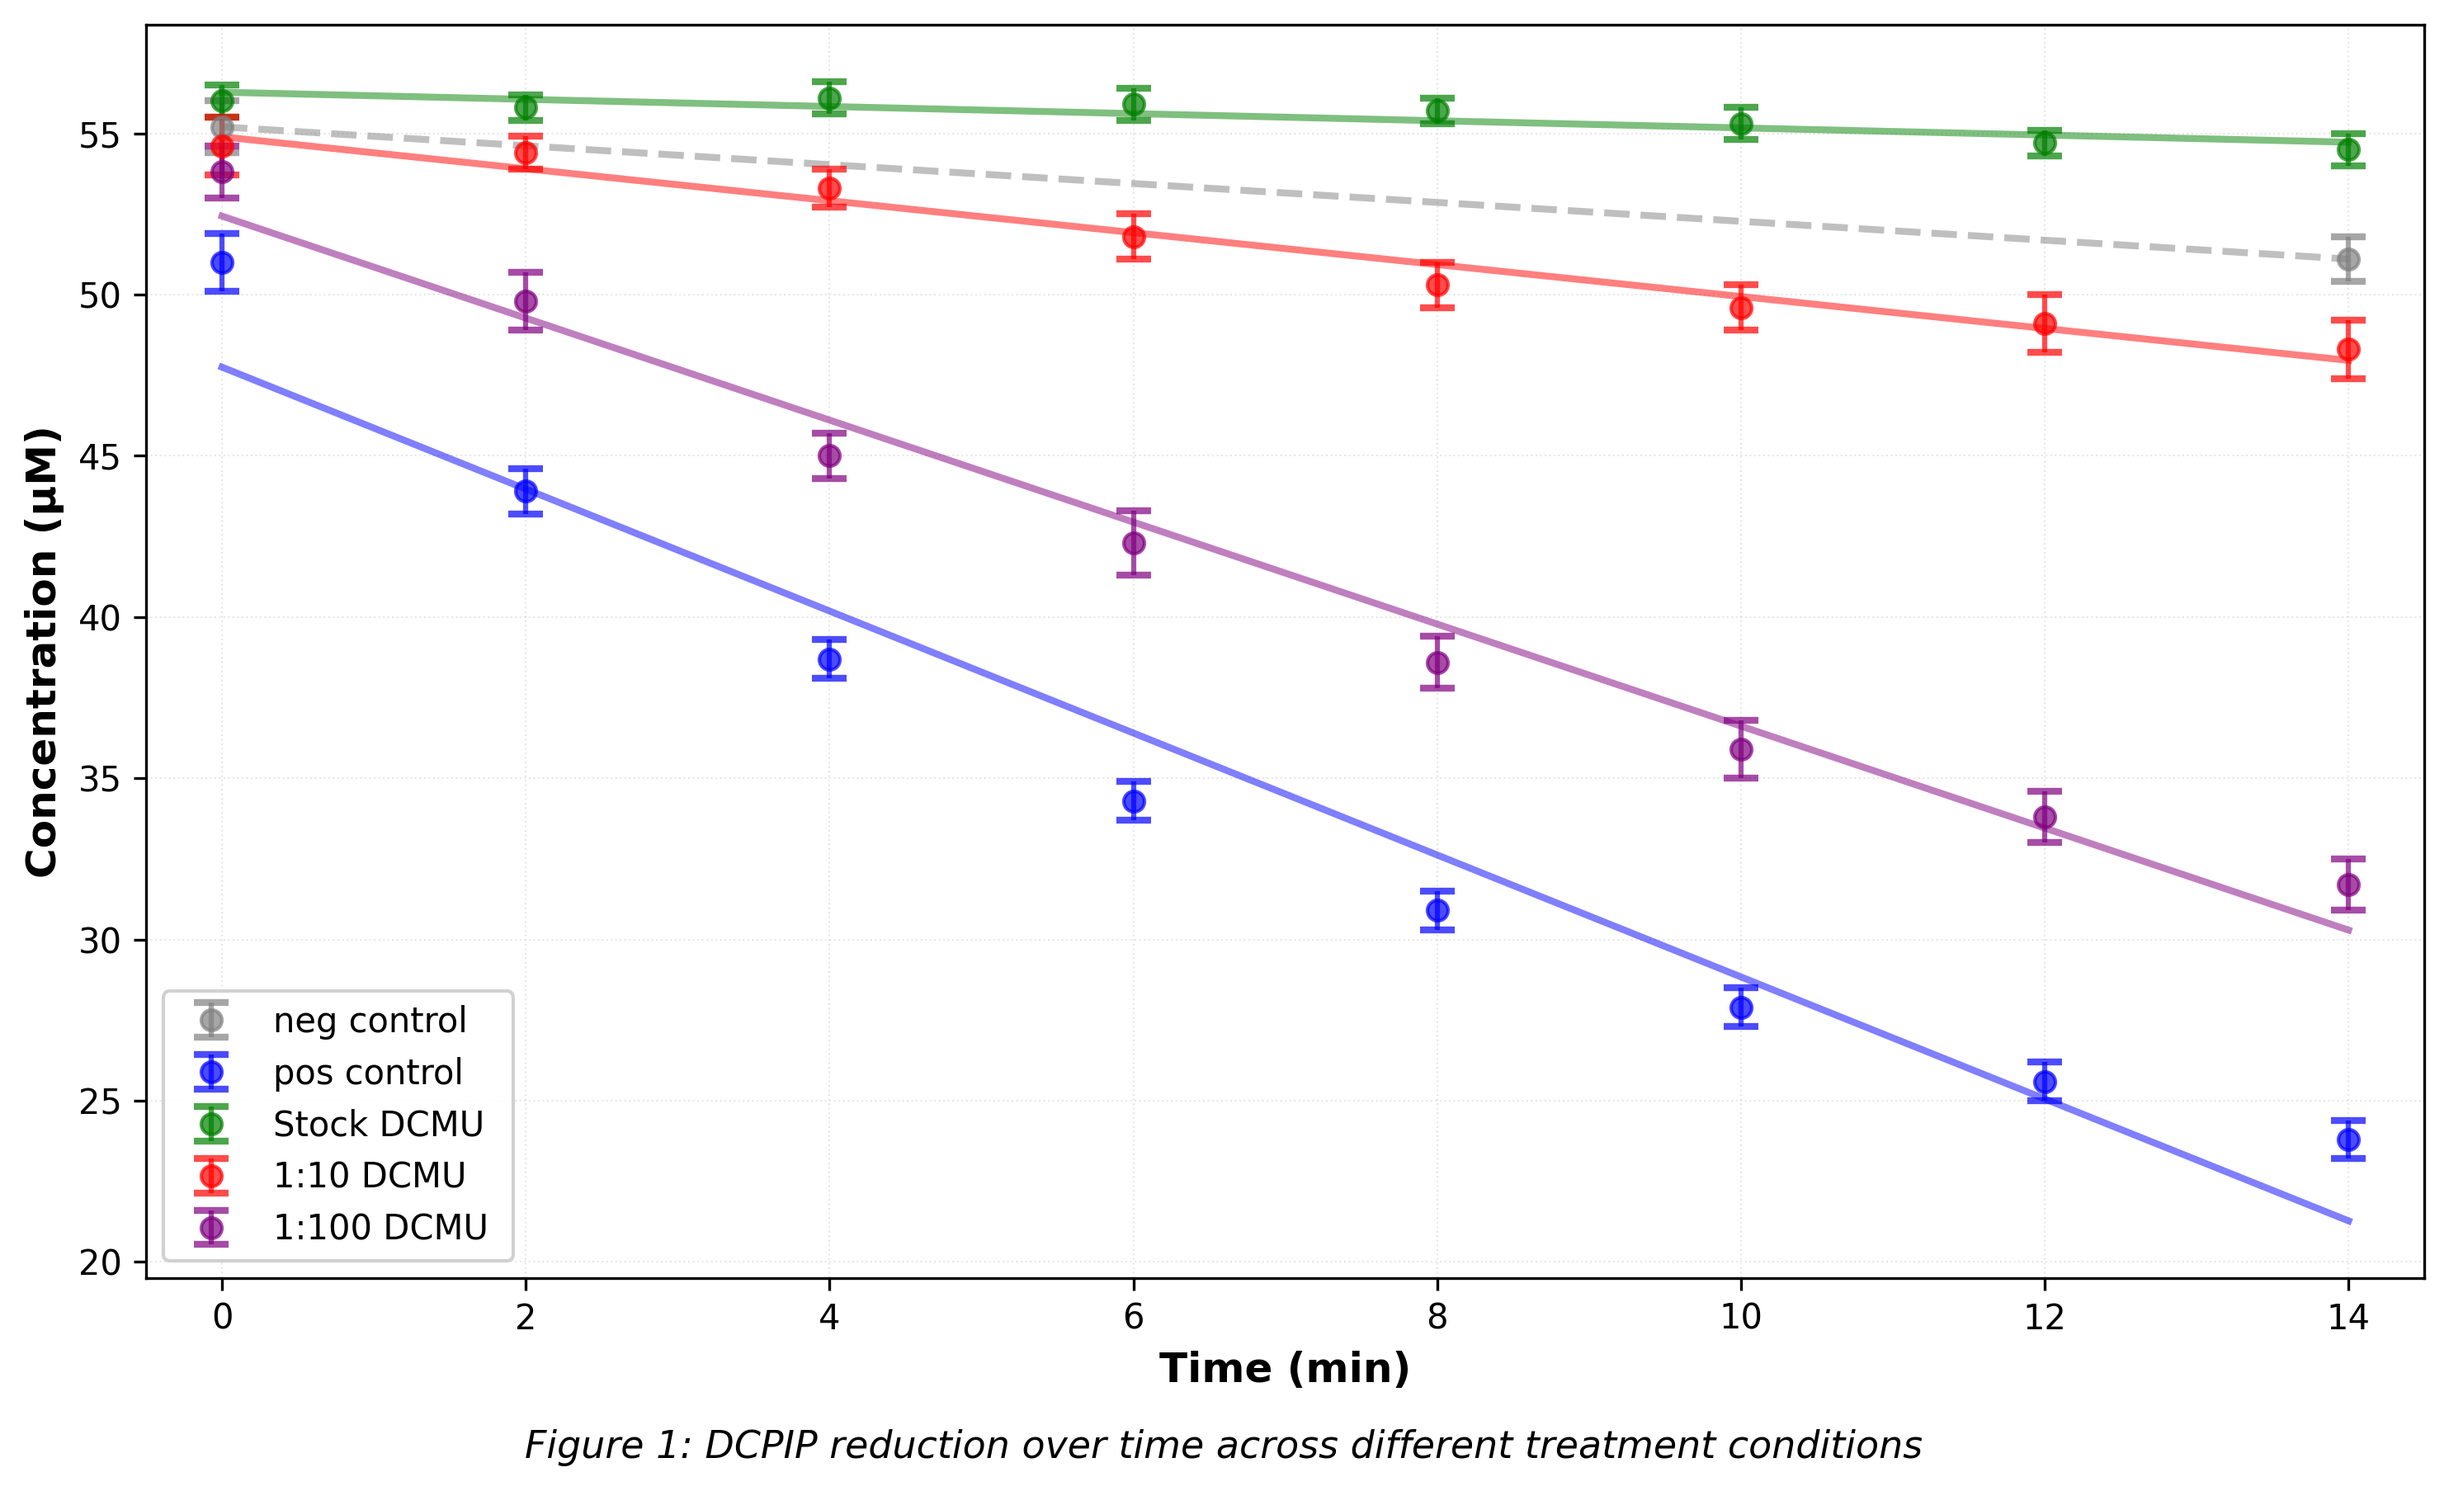
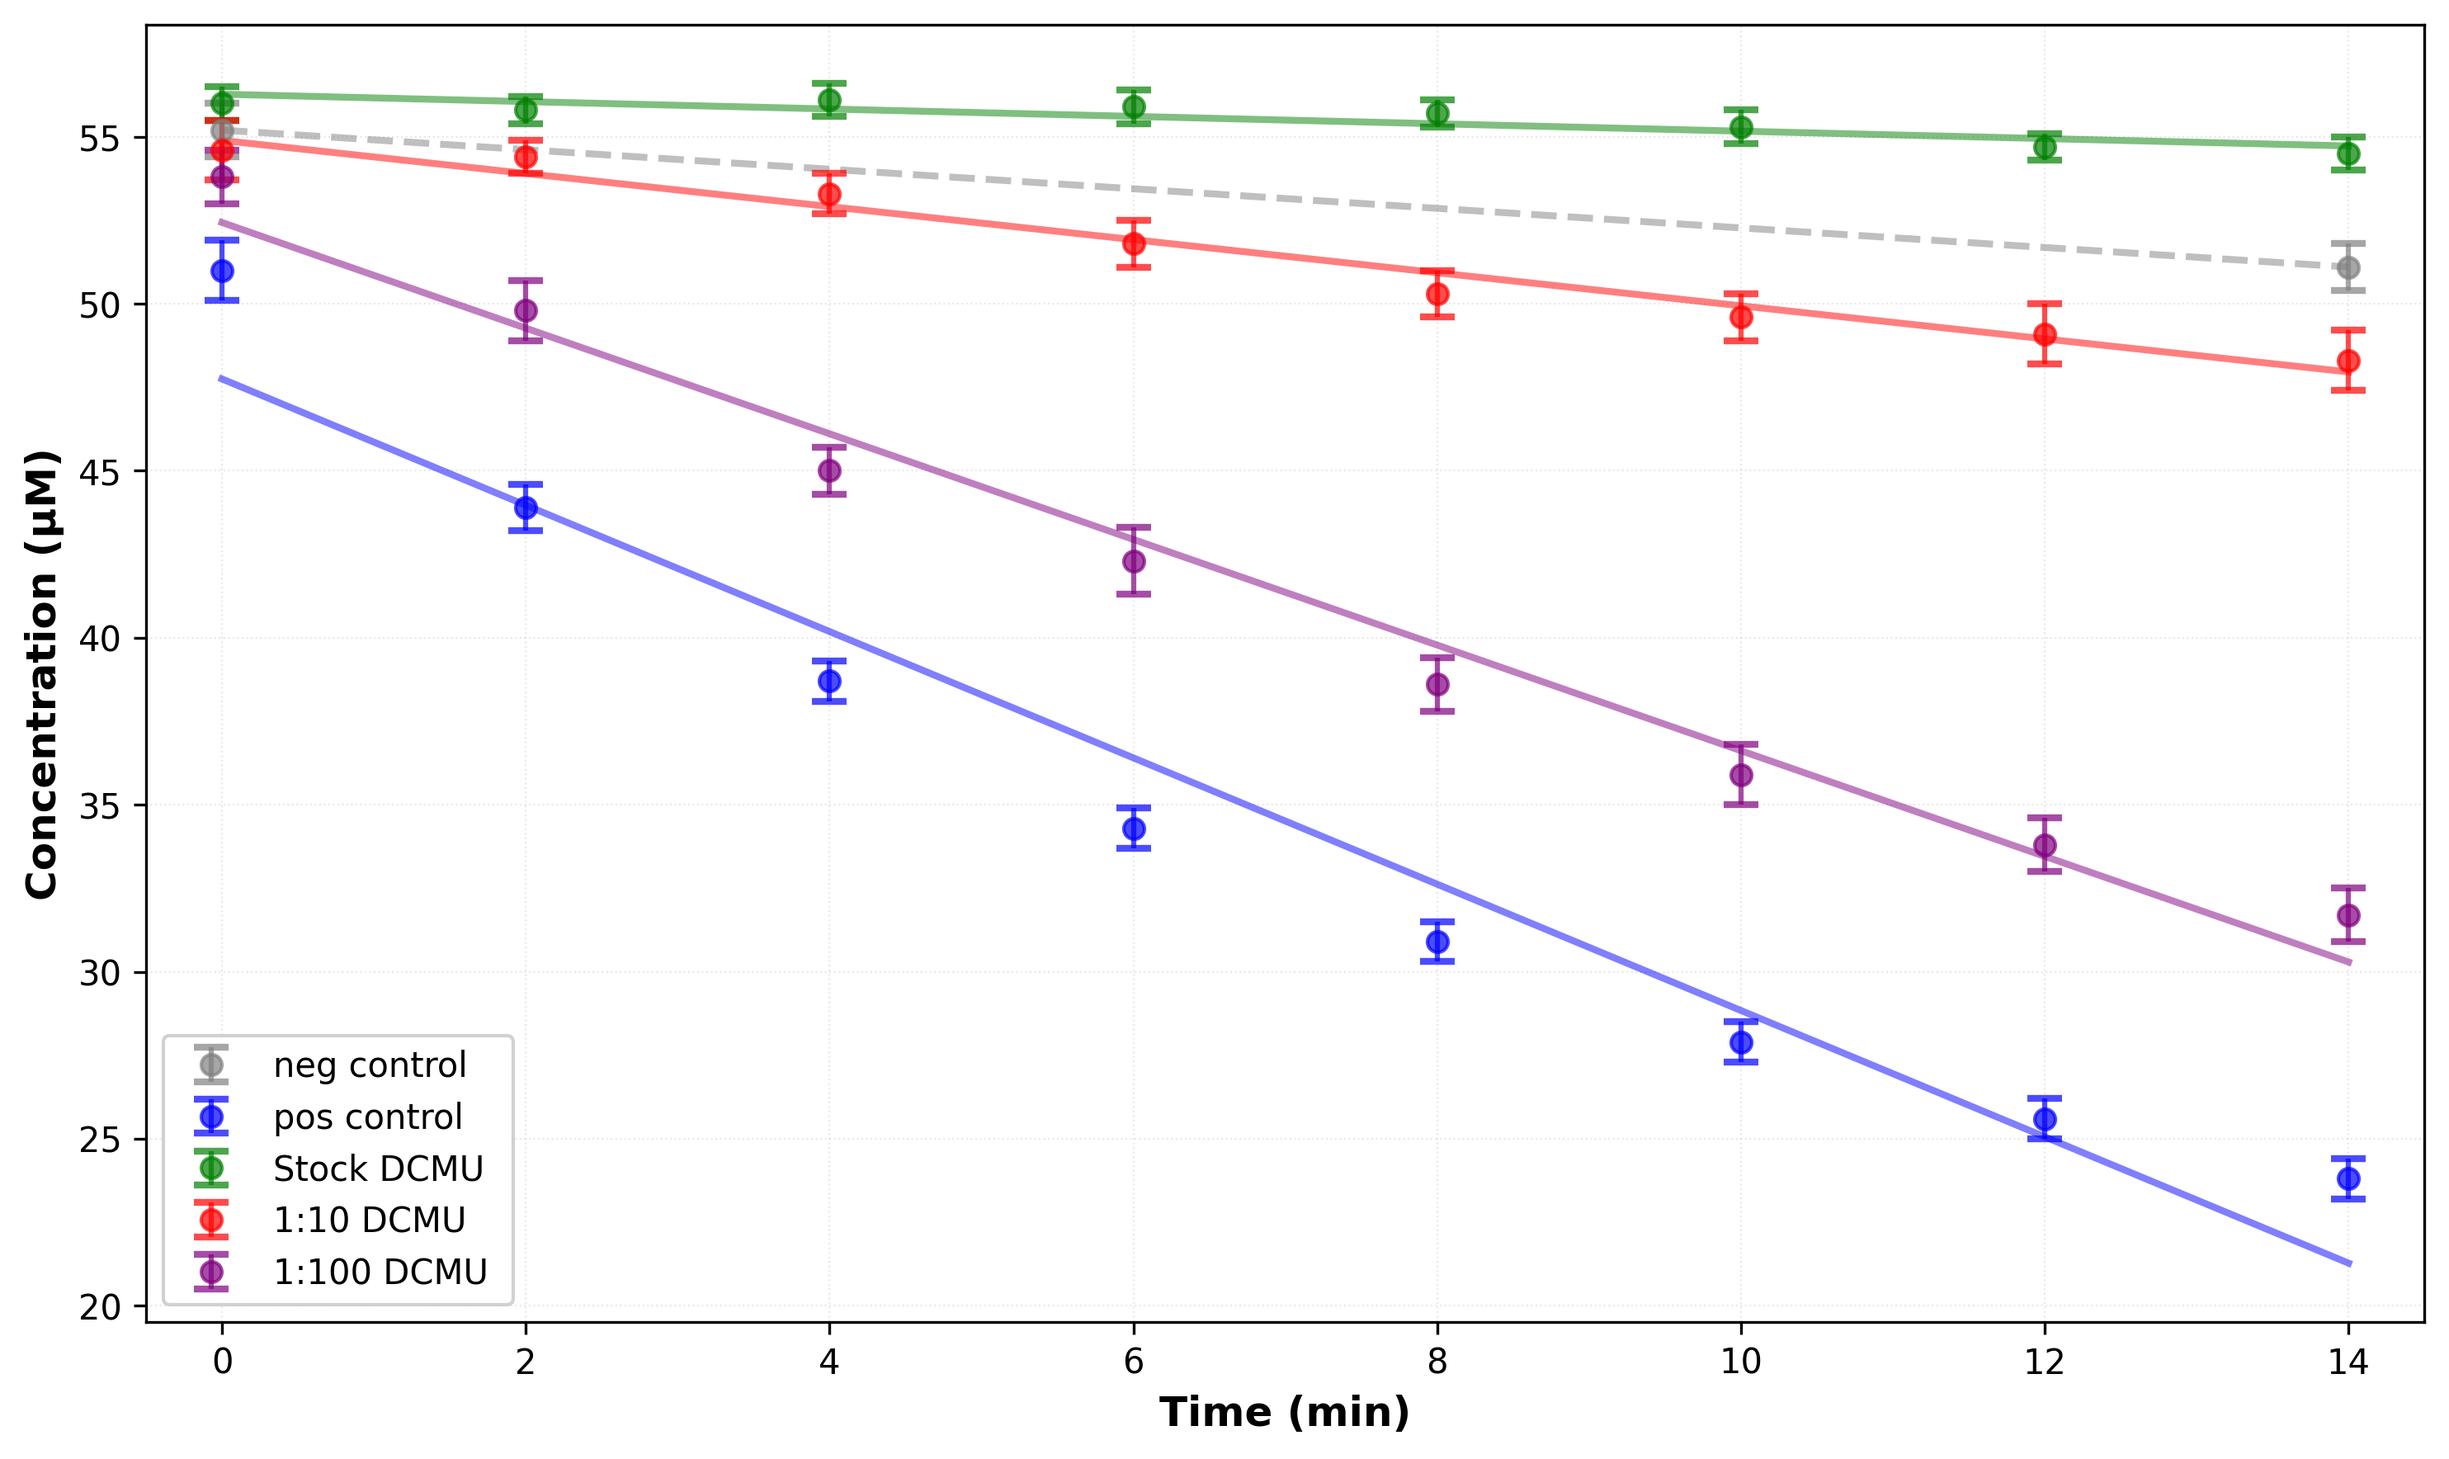
minor update to caption

diff --git a/main.py b/main.py
@@ -42,11 +42,8 @@ ax.legend(fontsize=10, loc='best', framealpha=0.9)
 ax.grid(True, alpha=0.3, linestyle=':', linewidth=0.5)
 ax.set_xlim(-0.5, 14.5)
 
-# Add figure caption at the bottom
-fig.text(0.5, 0.01, 'Figure 1: DCPIP reduction over time across different treatment conditions',
-         fontsize=11, ha='center', style='italic', wrap=True)
 
 plt.style.use('dark_background')
-plt.tight_layout(rect=[0, 0.03, 1, 1])
+plt.tight_layout()
 plt.savefig('lab4_plot.png', dpi=300, bbox_inches='tight')
 plt.show()
